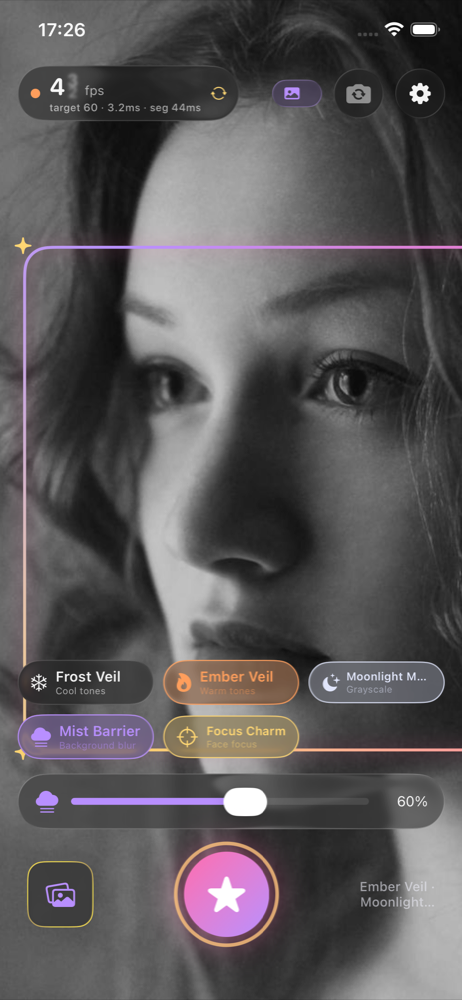
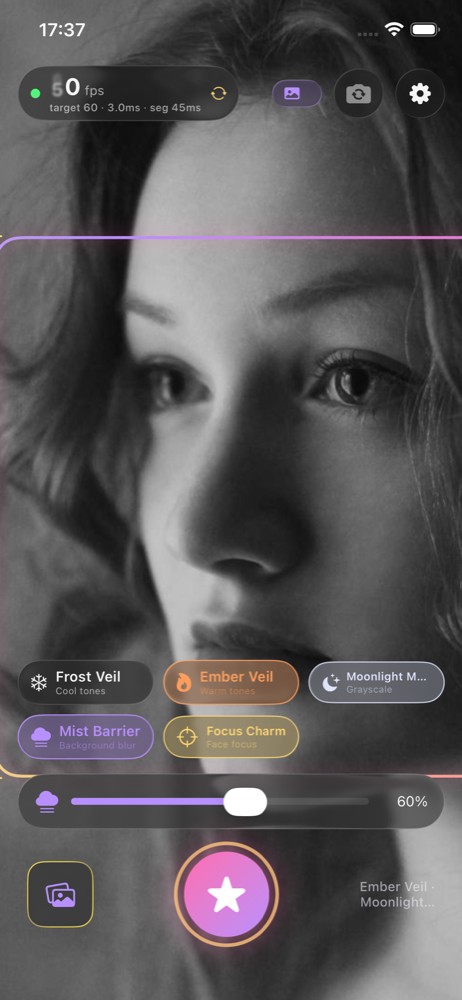
Maho Lens: render directly into the Metal layer on the capture queue
The per-frame draw through the main thread fixed 30 fps (30.0 on device) but still lost
frames at 60 (46 of 58 captured): draws coalesced whenever SwiftUI held the main thread.
PreviewRenderer now renders each frame straight into the view's CAMetalLayer on the
capture queue; nextDrawable() paces presentation to the display. Device reports recorded.

diff --git a/Maho Lens/Rendering/MetalPreviewView.swift b/Maho Lens/Rendering/MetalPreviewView.swift
@@ -25,9 +25,11 @@ final class PreviewRenderer: NSObject, MTKViewDelegate, @unchecked Sendable {
     let spellRenderer: SpellRenderer
     let monitor: PerformanceMonitor
     private let commandQueue: MTLCommandQueue?
-    /// The view we render into. Drawing is driven by frame arrival rather than a display timer, so a
-    /// 29 fps capture does not beat against a 30 Hz timer and lose frames.
-    private weak var view: MTKView?
+    /// Rendering targets the view's Metal layer directly from the capture queue: no display timer to
+    /// beat against the camera rate, and no main-thread hop where frames could coalesce. The layer's
+    /// drawable pool paces presentation to the display's refresh.
+    private weak var metalLayer: CAMetalLayer?
+    private var drawableSize = CGSize.zero
 
     init(spellRenderer: SpellRenderer = SpellRenderer(), monitor: PerformanceMonitor) {
         self.spellRenderer = spellRenderer
@@ -36,20 +38,35 @@ final class PreviewRenderer: NSObject, MTKViewDelegate, @unchecked Sendable {
         super.init()
     }
 
+    @MainActor
     func attach(_ view: MTKView) {
-        lock.withLock { self.view = view }
+        let layer = view.layer as? CAMetalLayer
+        lock.withLock {
+            metalLayer = layer
+            drawableSize = view.drawableSize
+        }
     }
 
+    /// Called on the source's queue for every frame. Renders immediately.
     func enqueue(_ frame: VideoFrame) {
-        let target = lock.withLock { () -> MTKView? in
+        let (layer, size, mask, spells) = lock.withLock { () -> (CAMetalLayer?, CGSize, CIImage?, SpellState) in
             pendingFrame = frame
             hasNewFrame = true
             frameSize = frame.size
-            return view
+            return (metalLayer, drawableSize, self.mask, self.spells)
         }
         monitor.recordCapture(at: frame.timestamp)
-        guard let target else { return }
-        DispatchQueue.main.async { target.draw() }
+        guard let layer, size != .zero, let commandQueue else { return }
+        // Blocks when all drawables are in flight, which paces us to the display without dropping
+        // more than the camera already discards for late frames.
+        guard let drawable = layer.nextDrawable(), let commandBuffer = commandQueue.makeCommandBuffer() else { return }
+        let start = CACurrentMediaTime()
+        let image = spellRenderer.apply(.init(image: CIImage(cvPixelBuffer: frame.pixelBuffer), mask: mask, spells: spells))
+        spellRenderer.render(image, to: drawable.texture, commandBuffer: commandBuffer, size: size)
+        commandBuffer.present(drawable)
+        commandBuffer.commit()
+        lock.withLock { hasNewFrame = false }
+        monitor.recordPreview(at: CACurrentMediaTime(), milliseconds: (CACurrentMediaTime() - start) * 1000)
     }
 
     func update(mask: CIImage?) {
@@ -74,7 +91,9 @@ final class PreviewRenderer: NSObject, MTKViewDelegate, @unchecked Sendable {
 
     // MARK: - MTKViewDelegate
 
-    func mtkView(_ view: MTKView, drawableSizeWillChange size: CGSize) {}
+    func mtkView(_ view: MTKView, drawableSizeWillChange size: CGSize) {
+        lock.withLock { drawableSize = size }
+    }
 
     func draw(in view: MTKView) {
         let (frame, mask, spells, isNew) = lock.withLock { () -> (VideoFrame?, CIImage?, SpellState, Bool) in
@@ -106,10 +125,11 @@ struct MetalPreviewView: UIViewRepresentable {
         view.delegate = renderer
         view.framebufferOnly = false
         view.colorPixelFormat = .bgra8Unorm
-        // Paused: `PreviewRenderer.enqueue` calls `draw()` for every captured frame instead.
+        // Paused: `PreviewRenderer.enqueue` renders into the layer for every captured frame instead.
         view.isPaused = true
         view.enableSetNeedsDisplay = false
         view.preferredFramesPerSecond = preferredFramesPerSecond
+        view.autoResizeDrawable = true
         renderer.attach(view)
         view.backgroundColor = .black
         view.clearColor = MTLClearColor(red: 0, green: 0, blue: 0, alpha: 1)
@@ -123,5 +143,6 @@ struct MetalPreviewView: UIViewRepresentable {
         if view.preferredFramesPerSecond != preferredFramesPerSecond {
             view.preferredFramesPerSecond = preferredFramesPerSecond
         }
+        renderer.attach(view)
     }
 }

diff --git a/docs/MODELS.md b/docs/MODELS.md
@@ -31,11 +31,16 @@ The dial shows preview, capture and analysis rates over a one-second window, ren
 | iPhone 16e simulator | 60 fps, Mist + Ember + Mono | 25 | 3.3 | 43 | same caveat |
 | iPhone 16e, front camera 1920×1080 (Kyle's device, 2026-10-07, timer-driven rendering) | 60 fps, Mist Barrier | 50.0 (peak 60.0) | 0.96 | 18.3 (29 analyses/s) | capture 58 fps; meets target |
 | iPhone 16e, front camera 1920×1080 (same build) | 30 fps, Mist Barrier | 24.0 (peak 26.0) | 1.44 | 29.2 (21 analyses/s) | capture 29 fps; **below target by 1 fps** |
-| iPhone 16e, after frame-driven rendering fix | 30 fps / 60 fps | _to be re-measured_ | | | the fix removes the timer/capture beat that cost 4–5 fps |
+| iPhone 16e, frame-driven draw via main thread | 30 fps, Mist Barrier | 30.0 (peak 31.0) | 2.77 | 15.9 (30 analyses/s) | capture 29 fps; meets target |
+| iPhone 16e, frame-driven draw via main thread | 60 fps, Mist Barrier | 46.0 (peak 61.0) | 3.31 | 25.3 (29 analyses/s) | capture 58 fps; below target: frames coalesced on the main thread |
+| iPhone 16e, direct layer rendering on the capture queue | 30 fps / 60 fps | _to be re-measured_ | | | removes the main-thread hop |
 
 The device reports show the GPU is not the limit (about 1 ms per frame) and the camera delivers
 29 and 58 fps. The lost frames came from the preview drawing on a display timer at the target rate:
 with capture at 29 fps and a 30 Hz timer, frames periodically land two per tick and one is skipped.
-Rendering is now triggered by frame arrival, so the preview rate should track the capture rate.
+Triggering the draw per frame through the main thread fixed 30 fps (30.0) but still lost frames at
+60 (46.0): when SwiftUI kept the main thread busy for more than a frame, two captured frames
+coalesced into one draw. Rendering now goes straight into the view's `CAMetalLayer` on the capture
+queue, where `nextDrawable()` paces presentation to the display.
 
 The 25 fps (at 30) and 50 fps (at 60) thresholds are encoded in `FrameRateSetting.minimumAcceptable` and drive the dial colour.

diff --git a/docs/BUGS.md b/docs/BUGS.md
@@ -13,6 +13,7 @@
 | 7 | Spell chips overflowed the screen in a horizontal row | UI test could not reach Mist Barrier | Three-column grid, all five spells visible |
 | 8 | Settings sheet failed to present right after dismissing the gallery sheet | UI test | Test waits for dismissal; the two sheets are independent state |
 | 9 | Preview rate fell 4–5 fps below the capture rate on device (50 vs 58 at 60 fps, 24 vs 29 at 30 fps) although rendering took ~1 ms | Device performance reports | The MTKView drew on a display timer at the target rate, beating against the camera's rate; rendering is now triggered per captured frame |
+| 10 | After the per-frame fix, 60 fps still read 46 while capture was 58 | Second device report | Draw calls hopped through the main thread and coalesced when SwiftUI was busy; rendering now goes directly into the Metal layer on the capture queue |
 
 ## Known issues
 
